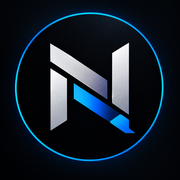
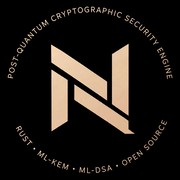
Refresh NEXUS-Q brand identity and homepage

Changed region(s): [[0.0278, 0.0278, 0.9722, 0.9722], [0.2778, 0.2222, 0.75, 0.75]]

diff --git a/site/index.html b/site/index.html
@@ -221,9 +221,9 @@ h2{font-size:clamp(36px,10vw,60px);max-width:none}
 @media (max-width:380px){.btn{padding:9px 14px;font-size:13px}}
 
 /* NEXUS-Q visual refresh: precise graphite panels, fine grid and explicit theme picker */
-:root{--bg:#101112;--fg:#f4f4f5;--mut:#b0b0b5;--line:#303034;--card:#19191c;--acc:#f2f2f4;--acc2:#bfc0c6;--ink:#111113;--warn:#e8bd73;--bad:#ff8989}
-:root[data-theme="light"]{--bg:#f4f4f2;--fg:#171719;--mut:#626269;--line:#d7d7d4;--card:#fff;--acc:#202024;--acc2:#65656e;--ink:#fff;--warn:#99651d;--bad:#b3261e}
-:root[data-theme="dark"]{--bg:#101112;--fg:#f4f4f5;--mut:#b0b0b5;--line:#303034;--card:#19191c;--acc:#f2f2f4;--acc2:#bfc0c6;--ink:#111113;--warn:#e8bd73;--bad:#ff8989}
+:root{--bg:#101112;--fg:#f4f4f5;--mut:#b0b0b5;--line:#303034;--card:#19191c;--acc:#d9b96a;--acc2:#f0d99a;--ink:#17130a;--warn:#e8bd73;--bad:#ff8989}
+:root[data-theme="light"]{--bg:#f4f4f2;--fg:#171719;--mut:#626269;--line:#d7d7d4;--card:#fff;--acc:#9b7428;--acc2:#c9a84c;--ink:#fff;--warn:#99651d;--bad:#b3261e}
+:root[data-theme="dark"]{--bg:#101112;--fg:#f4f4f5;--mut:#b0b0b5;--line:#303034;--card:#19191c;--acc:#d9b96a;--acc2:#f0d99a;--ink:#17130a;--warn:#e8bd73;--bad:#ff8989}
 body{background-color:var(--bg);background-image:linear-gradient(to right,color-mix(in srgb,var(--fg) 4%,transparent) 1px,transparent 1px),linear-gradient(to bottom,color-mix(in srgb,var(--fg) 4%,transparent) 1px,transparent 1px);background-size:22px 22px}
 nav{background:color-mix(in srgb,var(--bg) 92%,transparent);border:1px solid var(--line);border-radius:10px;top:max(14px,env(safe-area-inset-top,0px));left:max(16px,calc((100vw - 1120px)/2));right:max(16px,calc((100vw - 1120px)/2));box-shadow:0 10px 36px #0002}
 nav .wrap{height:68px;max-width:none;padding:0 26px}.logo{font-family:"Instrument Sans",sans-serif;font-weight:700;letter-spacing:.1em;font-size:21px}.logo img{width:32px;height:32px;object-fit:contain;border-radius:6px}.logo i{background:var(--fg);color:var(--bg)}
@@ -286,7 +286,31 @@ try{if(localStorage.getItem('nq-analytics-consent')==='granted')window.nqLoadGTM
 </script>
 <link rel="stylesheet" href="/nq-analytics-consent.css">
   <link rel="stylesheet" href="/nq-bot-widget.css">
-</head>
+
+<style id="nq-gold-brand-refresh">
+:root{--acc:#d9b96a;--acc2:#f0d99a;--warn:#e8bd73}
+:root[data-theme="dark"]{--acc:#d9b96a;--acc2:#f0d99a;--warn:#e8bd73}
+:root[data-theme="light"]{--acc:#9b7428;--acc2:#c9a84c;--warn:#99651d}
+@media(prefers-color-scheme:light){:root:not([data-theme="dark"]){--acc:#9b7428;--acc2:#c9a84c;--warn:#99651d}}
+.brand-banner{display:block;width:min(100%,1080px);height:auto;max-height:420px;object-fit:contain;margin:0 auto 28px;border:1px solid color-mix(in srgb,var(--acc) 48%,var(--line));border-radius:8px;box-shadow:0 16px 54px color-mix(in srgb,var(--acc) 12%,transparent);background:#080808}
+.logo img{border:1px solid color-mix(in srgb,var(--acc) 55%,transparent);box-shadow:0 0 16px color-mix(in srgb,var(--acc) 18%,transparent)}
+.logo i{background:var(--acc);color:#17130a}
+.btn.p,.sdk-link.primary{background:linear-gradient(135deg,#f0d99a,#c9a84c);border-color:#c9a84c;color:#17130a;box-shadow:0 3px 14px #c9a84c26}
+.btn.p:hover,.sdk-link.primary:hover{background:linear-gradient(135deg,#f7e8bd,#d9b96a);border-color:#f0d99a;color:#17130a}
+.btn:hover,.tg:hover,.docs a:hover,.community-link:hover{border-color:var(--acc)}
+.theme-choice[aria-pressed="true"]{background:var(--acc);border-color:var(--acc);color:#17130a}
+.theme-picker{border-color:color-mix(in srgb,var(--acc) 36%,var(--line))}
+.chip{border-color:color-mix(in srgb,var(--acc) 40%,var(--line))}
+.chip b{background:var(--acc);box-shadow:0 0 10px color-mix(in srgb,var(--acc) 60%,transparent)}
+h1 em,h2 em{color:var(--acc)}
+.stats b,.eyebrow,.step .n,.ver .tag,.lk{color:var(--acc)}
+.card:hover,.ver.cur,.sdk-card[open],.panel:focus-within{border-color:color-mix(in srgb,var(--acc) 65%,var(--line))}
+.step:before{background:linear-gradient(90deg,var(--acc),var(--acc2))}
+.copy:hover{border-color:var(--acc);color:var(--acc)}
+@media(max-width:700px){.brand-banner{max-height:230px;margin-bottom:22px;border-radius:6px}}
+@media(prefers-reduced-motion:reduce){.brand-banner{box-shadow:none}}
+</style>
+\n</head>
 <body>
 <nav><div class="wrap">
 <a class="logo notranslate" translate="no" href="#top"><img src="/nexus-q-logo-64.webp" alt="" width="30" height="30">NEXUS-Q</a>
@@ -297,6 +321,7 @@ try{if(localStorage.getItem('nq-analytics-consent')==='granted')window.nqLoadGTM
 <header class="hero" id="top">
 <canvas id="cv" aria-hidden="true"></canvas>
 <div class="wrap">
+<img class="brand-banner" src="/assets/brand/nexus-q-banner-animado.svg" alt="NEXUS-Q — post-quantum cryptographic security engine" width="1200" height="630" fetchpriority="high" decoding="async">
 <span class="chip"><b></b>v4.1.2 release · Oct 22, 2026 · independent audit not claimed</span>
 <h1 class="d">Post-quantum security, <em>built in the open.</em></h1>
 <p class="lead">NEXUS-Q is a Rust cryptographic engine for protecting <strong>data, keys and identities</strong> with ML-KEM, ML-DSA, a tamper-evident audit log and a growing PKI/SDK ecosystem. Version 4.1.2 adds certificate lifecycle, signing, timestamping, runtime and high-availability capabilities—with security limitations stated explicitly.</p>

diff --git a/site/nexus-global.css b/site/nexus-global.css
@@ -45,3 +45,15 @@ body:has(nav) nav .mb[aria-expanded="true"]{background:var(--fg)!important;color
   body:has(nav) nav .links>a{min-height:44px!important;font-size:14px!important}
   body:has(nav) nav .navr>.btn.p{display:inline-flex!important;padding:7px 9px!important;font-size:12px!important}
 }
+
+/* NEXUS-Q gold identity: shared by the homepage, apps and product pages. */
+:root{--acc:#d9b96a!important;--acc2:#f0d99a!important;--warn:#e8bd73!important}
+:root[data-theme="dark"]{--acc:#d9b96a!important;--acc2:#f0d99a!important;--warn:#e8bd73!important}
+:root[data-theme="light"]{--acc:#9b7428!important;--acc2:#c9a84c!important;--warn:#99651d!important}
+@media(prefers-color-scheme:light){:root:not([data-theme="dark"]){--acc:#9b7428!important;--acc2:#c9a84c!important;--warn:#99651d!important}}
+body:has(nav) nav .logo img{border:1px solid color-mix(in srgb,var(--acc) 55%,transparent);box-shadow:0 0 14px color-mix(in srgb,var(--acc) 18%,transparent)}
+.btn.p,.btn.primary,.sdk-link.primary{background:linear-gradient(135deg,#f0d99a,#c9a84c)!important;border-color:#c9a84c!important;color:#17130a!important;box-shadow:0 3px 14px #c9a84c26}
+.btn.p:hover,.btn.primary:hover,.sdk-link.primary:hover{background:linear-gradient(135deg,#f7e8bd,#d9b96a)!important;border-color:#f0d99a!important;color:#17130a!important}
+.theme-choice[aria-pressed="true"]{background:var(--acc)!important;border-color:var(--acc)!important;color:#17130a!important}
+.copy:hover,.tab[aria-selected="true"],.chip b{border-color:var(--acc)!important}
+.community-link:hover,.docs a:hover,.sdk-card:hover{border-color:var(--acc)!important}

diff --git a/site/insights.css b/site/insights.css
@@ -42,3 +42,9 @@
 .insight-page h1{font-weight:750;letter-spacing:-.055em}
 .insight-page h2{font-weight:750;letter-spacing:-.045em}
 .insight-page .metric strong{font-weight:700}
+
+/* NEXUS-Q gold identity for editorial, architecture and community routes. */
+:root{--ins-accent:#d9b96a;--ins-violet:#f0d99a}
+.insight-page .btn.primary{background:linear-gradient(135deg,#f0d99a,#c9a84c);color:#17130a;border-color:#c9a84c;box-shadow:0 3px 14px #c9a84c26}
+.insight-page .btn.primary:hover{background:linear-gradient(135deg,#f7e8bd,#d9b96a);color:#17130a}
+.insight-page .card:hover,.insight-page .layer:hover,.insight-page .metric:hover{border-color:color-mix(in srgb,var(--ins-accent) 65%,var(--ins-line))}
